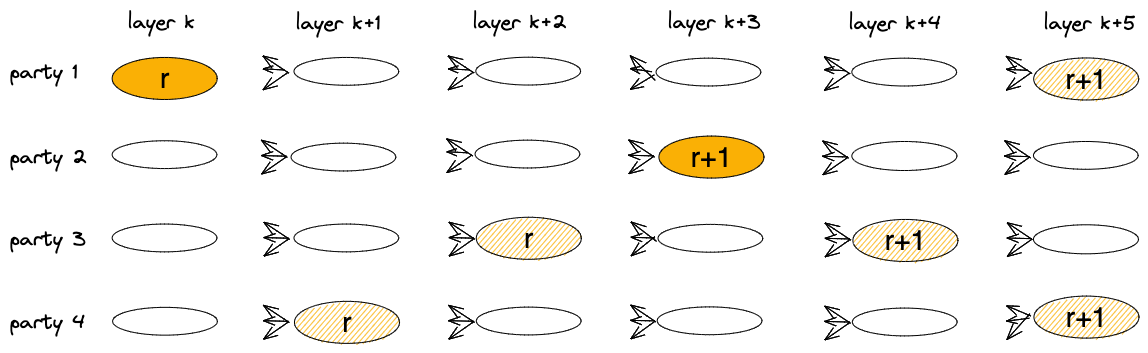
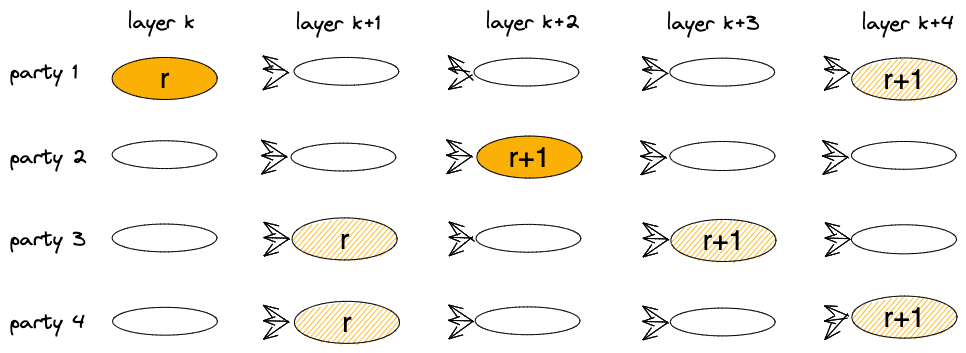
working on DAG draft

diff --git a/_drafts/DAG-BFT.md b/_drafts/DAG-BFT.md
@@ -179,10 +179,11 @@ When a party receives `proposal(r)`, it advances the meta-information value to `
 The next broadcast transmitted by the party is interpreted as voting for `proposal(r)`. 
 A proposal that has a quorum of 2F+1 votes is considered **committed**.
 
-Below, party 4 votes for `proposal(r)` by advancing its view to `r` in layer k+1, denoted with a striped yellow oval; party 3 does the same at layer k+2. `proposal(r)` now has the required quorum of 2F+1 votes (including the leader's implicit vote), and it becomes committed.
+Below, parties 3 and 4 vote for `proposal(r)` by advancing their view to `r` in layer k+1, denoted with striped yellow ovals. `proposal(r)` now has the required quorum of 2F+1 votes (including the leader's implicit vote), and it becomes committed.
 
 When a party sees 2F+1 votes in `view(r)` it enters `view(r+1)`.
-In the scenario below, `view(r+1)` has party 2 as `leader(r+1)`, and its proposal on layer k+3 receives a quorum of votes by layer k+4.
+In the scenario below, `view(r+1)` has party 2 as `leader(r+1)`. 
+This view demonstrates that votes may arrive at different layers, party 3 voting at layer k+3, 1 and 4 at layer k+4, at which point `proposal(r+1)` has the necessary quorum of 2F+1 to become committed. Meanwhile, messages keep spreading transaction and the DAG keeps growing.
 
   <img src="/images/FIN/propose-commit.png" width="750"  class="center"  />
 
